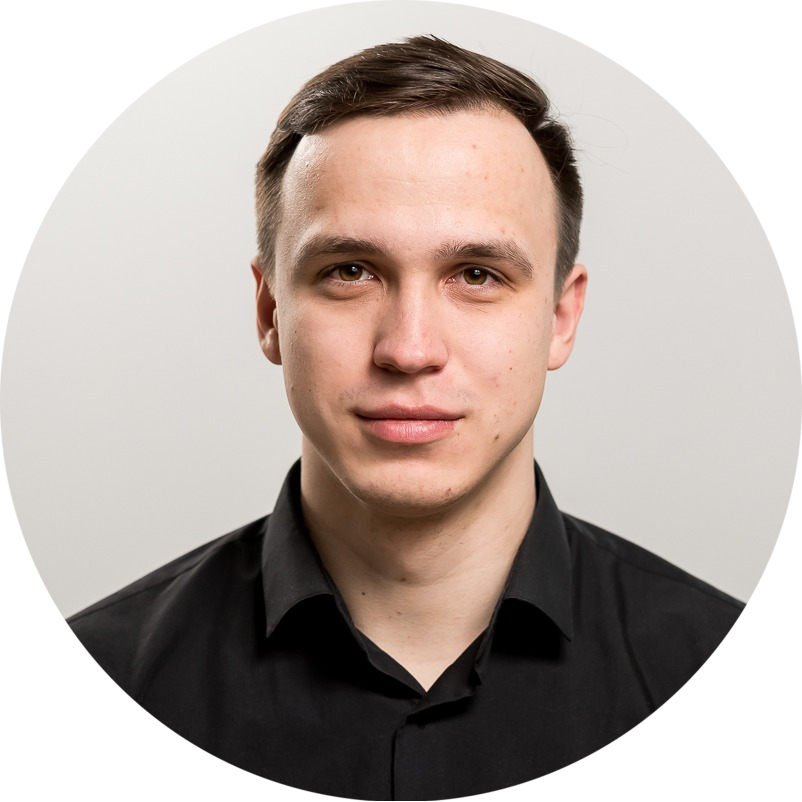
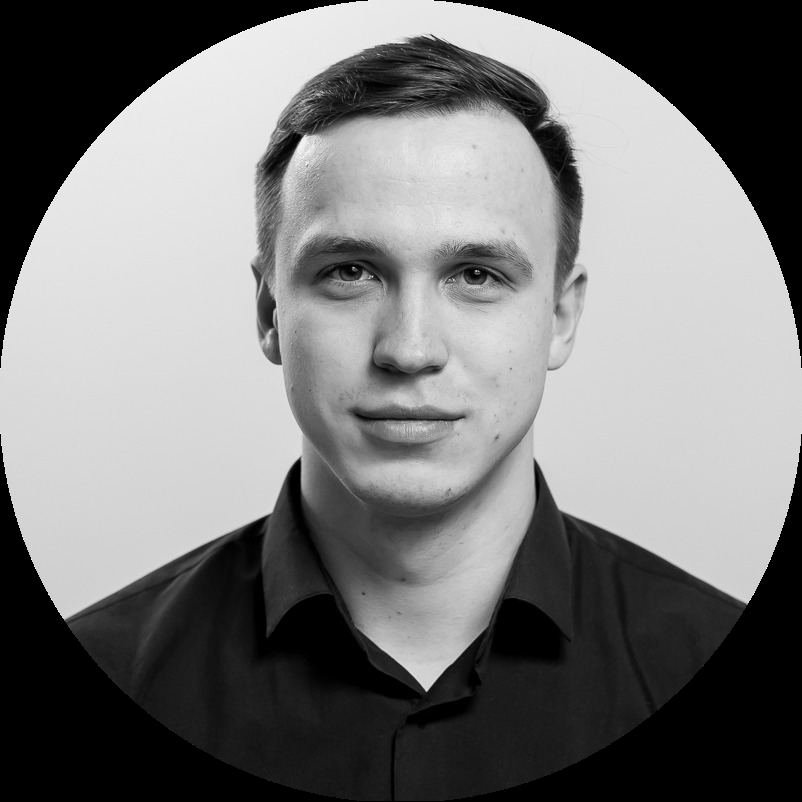
fixed mine photo, deleted unused blocks, added social networks for org team

diff --git a/src/views/Home.vue b/src/views/Home.vue
@@ -73,7 +73,7 @@
   import AboutGDGChapter from '@/components/home/AboutGDGChapter'
   import eventshowcase from '@/components/home/eventshowcase'
   // import wtmInfo from '@/components/home/wtmInfo'
-  import partners from '@/components/home/partners'
+  //import partners from '@/components/home/partners'
   import featureEvent from '@/components/home/featureEvent'
   
   export default {
@@ -83,7 +83,7 @@
       AboutGDGChapter,
       eventshowcase,
       // wtmInfo,
-      partners,
+      //partners,
       featureEvent
     }
   }
